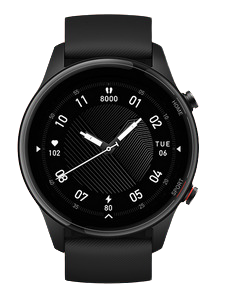
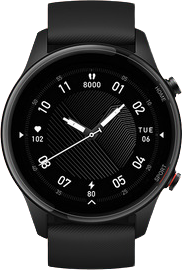
Convert from HTML file to PHP file

diff --git a/assets/css/styles.css b/assets/css/styles.css
@@ -549,7 +549,7 @@ body a:hover {
   }
 
   .phone {
-    width: 130px;
+    width: 90px;
   }
 
   .watch-home {
@@ -557,7 +557,7 @@ body a:hover {
   }
 
   .watch {
-    width: 100px;
+    width: 80px;
   }
 
   .product-layout {

diff --git a/product.php b/product.php
@@ -1,3 +1,9 @@
+<?php 
+  include 'dbconnect.php';
+
+  $idk = $_GET['idkategori'];
+?>
+
 <!DOCTYPE html>
 <html lang="en">
   <head>
@@ -19,21 +25,24 @@
     <!--===== HEADER =====-->
     <nav class="navbar fixed-top navbar-expand-lg navbar-light scroll-navbar">
       <div class="container-fluid">
-        <a class="navbar-brand fs-3" href="index.html">Tokoku</a>
+        <a class="navbar-brand fs-3" href="index.php">Tokoku</a>
         <button class="navbar-toggler" type="button" data-bs-toggle="collapse" data-bs-target="#navbarTogglerDemo02" aria-controls="navbarTogglerDemo02" aria-expanded="false" aria-label="Toggle navigation">
           <span class="navbar-toggler-icon"></span>
         </button>
         <div class="collapse navbar-collapse" id="navbarTogglerDemo02">
           <ul class="navbar-nav me-auto mb-2 mb-lg-0">
             <li class="nav-item">
-              <a class="nav-link fs-6" href="index.html">Home</a>
+              <a class="nav-link fs-6" href="index.php">Home</a>
             </li>
             <li class="nav-item dropdown">
               <a class="nav-link dropdown-toggle active" href="#" id="navbarDropdown" role="button" data-bs-toggle="dropdown" aria-expanded="false"> Product </a>
               <ul class="dropdown-menu" aria-labelledby="navbarDropdown">
-                <li><a class="dropdown-item" href="#">Laptop</a></li>
-                <li><a class="dropdown-item" href="product-phone.html">Phone</a></li>
-                <li><a class="dropdown-item" href="product-watch.html">Watch</a></li>
+                <?php 
+                  $kat=mysqli_query($conn,"SELECT * from kategori order by idkategori ASC");
+                  while($p=mysqli_fetch_array($kat)) :
+                ?>
+                <li><a class="dropdown-item" href="product.php?idkategori=<?= $p['idkategori'] ?>"><?= $p['namakategori'] ?></a></li>
+                <?php endwhile; ?>
               </ul>
             </li>
           </ul>
@@ -54,7 +63,7 @@
 
     <main class="main">
       <section class="featured section" id="shop">
-        <h2 class="section-title">Laptop</h2>
+        <h2 class="section-title">Produk</h2>
 
         <div class="products">
           <div class="row">
@@ -62,7 +71,7 @@
               <div class="brands rounded">
                 <h2>Brands</h2>
                 <ul class="list-brands">
-                  <li>
+                <li>
                     <a href="#"><i class="bx bx-right-arrow-alt button-icon icon-brand">Acer</i></a>
                   </li>
                   <li>
@@ -76,54 +85,53 @@
             </div>
 
             <div class="col-sm products-right">
+              <?php 
+              	$brgs=mysqli_query($conn,"SELECT * from produk where idkategori='$idk' order by idproduk ASC");
+                $x = mysqli_num_rows($brgs);
+
+                if ( $x > 0 ) {
+                  if ( $idk == 1 ) {
+                  while($p=mysqli_fetch_array($brgs)) :
+              ?>
+                <article class="product product-laptop">
+                  <div class="product-layout">
+                    <a href="display-product.php?idproduk=<?= $p['idproduk'] ?>"><img src="<?= $p['gambar']?>" alt="Gambar Produk" class="product_img laptop" /></a>
+                  </div>
+                  <span class="product_name"><?= $p["namaproduk"] ?></span>
+                  <span class="product_price">Rp <?php echo number_format($p['hargaafter']) ?></span>
+                  <a href="display-product.php?idproduk=<?= $p['idproduk'] ?>" class="button-light">Lihat Produk <i class="bx bx-right-arrow-alt button-icon"></i></a>
+                </article>
+              <?php
+                endwhile;
+                } elseif ( $idk == 2 ) {
+                  while($p=mysqli_fetch_array($brgs)) :
+              ?>
+                <article class="product product-laptop">
+                  <div class="product-layout">
+                    <a href="display-product.php?idproduk=<?= $p['idproduk'] ?>"><img src="<?= $p['gambar']?>" alt="Gambar Produk" class="product_img phone" /></a>
+                  </div>
+                  <span class="product_name"><?= $p["namaproduk"] ?></span>
+                  <span class="product_price">Rp <?php echo number_format($p['hargaafter']) ?></span>
+                  <a href="display-product.php?idproduk=<?= $p['idproduk'] ?>" class="button-light">Lihat Produk <i class="bx bx-right-arrow-alt button-icon"></i></a>
+                </article>
+              <?php 
+                endwhile;
+              } elseif ( $idk == 3 ) {
+                while($p=mysqli_fetch_array($brgs)) :
+            ?>
               <article class="product product-laptop">
                 <div class="product-layout">
-                  <img src="assets/img/Laptop/Asus/ROG/ROG Flow X13 GV301/ROG Flow X13 Belakang.png" alt="Featured 1" class="product_img laptop" />
+                  <a href="display-product.php?idproduk=<?= $p['idproduk'] ?>"><img src="<?= $p['gambar']?>" alt="Gambar Produk" class="product_img watch" /></a>
                 </div>
-                <span class="product_name">ROG Flow 13</span>
-                <span class="product_price">Rp 30.000.000</span>
-                <a href="#" class="button-light">Lihat Produk <i class="bx bx-right-arrow-alt button-icon"></i></a>
+                <span class="product_name"><?= $p["namaproduk"] ?></span>
+                <span class="product_price">Rp <?php echo number_format($p['hargaafter']) ?></span>
+                <a href="display-product.php?idproduk=<?= $p['idproduk'] ?>" class="button-light">Lihat Produk <i class="bx bx-right-arrow-alt button-icon"></i></a>
               </article>
-              <article class="product product-laptop">
-                <div class="product-layout">
-                  <img src="assets/img/Laptop/Asus/ROG/ROG Zephyrus G14/ROG G14 Belakang.png" alt="Featured 1" class="product_img laptop" />
-                </div>
-                <span class="product_name">ROG Zephyrus G14</span>
-                <span class="product_price">Rp 30.000.000</span>
-                <a href="#" class="button-light">Lihat Produk <i class="bx bx-right-arrow-alt button-icon"></i></a>
-              </article>
-              <article class="product product-laptop">
-                <div class="product-layout">
-                  <img src="assets/img/Laptop/Asus/Zenbook/Zenbook 14 UX435/Zenbook 14 Belakang.png" alt="Featured 1" class="product_img laptop" />
-                </div>
-                <span class="product_name">Zenbook 14 UX435</span>
-                <span class="product_price">Rp 30.000.000</span>
-                <a href="#" class="button-light">Lihat Produk <i class="bx bx-right-arrow-alt button-icon"></i></a>
-              </article>
-              <article class="product product-laptop">
-                <div class="product-layout">
-                  <img src="assets/img/Laptop/Asus/Zenbook/Zenbook Pro Duo 15' Oled/Zenbook Pro Belakang.png" alt="Featured 1" class="product_img laptop" />
-                </div>
-                <span class="product_name">Zenbook Pro Duo</span>
-                <span class="product_price">Rp 30.000.000</span>
-                <a href="#" class="button-light">Lihat Produk <i class="bx bx-right-arrow-alt button-icon"></i></a>
-              </article>
-              <article class="product product-laptop">
-                <div class="product-layout">
-                  <img src="assets/img/Laptop/Asus/Vivobook/VivoBook 14 (A413, 11th Gen Intel)/Vivobook 14 A413 Belakang.png" alt="Featured 1" class="product_img laptop" />
-                </div>
-                <span class="product_name">VivoBook 14 A413</span>
-                <span class="product_price">Rp 30.000.000</span>
-                <a href="#" class="button-light">Lihat Produk <i class="bx bx-right-arrow-alt button-icon"></i></a>
-              </article>
-              <article class="product product-laptop">
-                <div class="product-layout">
-                  <img src="assets/img/Laptop/Asus/Vivobook/Vivobook 14 (M413 AMD Ryzen 5000 Series)/Vivobook 14 M413 Belakang.png" alt="Featured 1" class="product_img laptop" />
-                </div>
-                <span class="product_name">VivoBook 14 M413</span>
-                <span class="product_price">Rp 30.000.000</span>
-                <a href="#" class="button-light">Lihat Produk <i class="bx bx-right-arrow-alt button-icon"></i></a>
-              </article>
+            <?php endwhile;
+            }
+           } else {
+             echo "Data tidak Ditemukan";
+           } ?>
             </div>
           </div>
         </div>

diff --git a/display-product.php b/display-product.php
@@ -1,3 +1,9 @@
+<?php 
+  include "dbconnect.php";
+?>
+
+
+
 <!DOCTYPE html>
 <html lang="en">
   <head>
@@ -31,9 +37,12 @@
             <li class="nav-item dropdown">
               <a class="nav-link dropdown-toggle active" href="#" id="navbarDropdown" role="button" data-bs-toggle="dropdown" aria-expanded="false"> Product </a>
               <ul class="dropdown-menu" aria-labelledby="navbarDropdown">
-                <li><a class="dropdown-item" href="#">Laptop</a></li>
-                <li><a class="dropdown-item" href="product-phone.html">Phone</a></li>
-                <li><a class="dropdown-item" href="product-watch.html">Watch</a></li>
+                <?php 
+                  $kat=mysqli_query($conn,"SELECT * from kategori order by idkategori ASC");
+                  while($p=mysqli_fetch_array($kat)) :
+                ?>
+                <li><a class="dropdown-item" href="kategori.php?idkategori=<?= $p['idkategori'] ?>"><?php echo $p['namakategori'] ?></a></li>
+                <?php endwhile; ?>
               </ul>
             </li>
           </ul>
@@ -55,11 +64,11 @@
     <main class="main">
       <div class="display-product row">
         <div class="border-product border border-2 rounded col-5">
-          <img src="assets/img/Laptop/Asus/ROG/ROG Flow X13 GV301/ROG Flow X13 Belakang.png" alt="" class="image-product" />
+          <img src="" alt="" class="image-product" />
         </div>
 
         <div class="display-spec col-5 ms-5">
-          <h2 class="display-product-name">ASUS ROG FLOW X13 GV301</h2>
+          <h2 class="display-product-name"></h2>
           <p class="product-description">
             <span>Description :</span> <br />
             Lorem ipsum dolor sit amet consectetur adipisicing elit. Iste earum consectetur excepturi eveniet quod dicta obcaecati placeat at aliquam illum.

diff --git a/index.php b/index.php
@@ -1,3 +1,7 @@
+<?php 
+  include "dbconnect.php";
+?>
+
 <!DOCTYPE html>
 <html lang="en">
   <head>
@@ -31,9 +35,12 @@
             <li class="nav-item dropdown">
               <a class="nav-link dropdown-toggle" href="#" id="navbarDropdown" role="button" data-bs-toggle="dropdown" aria-expanded="false"> Product </a>
               <ul class="dropdown-menu" aria-labelledby="navbarDropdown">
-                <li><a class="dropdown-item" href="product-laptop.html">Laptop</a></li>
-                <li><a class="dropdown-item" href="product-phone.html">Phone</a></li>
-                <li><a class="dropdown-item" href="product-watch.html">Watch</a></li>
+              <?php 
+                  $kat=mysqli_query($conn,"SELECT * from kategori order by idkategori ASC");
+                  while($p=mysqli_fetch_array($kat)) :
+                ?>
+                <li><a class="dropdown-item" href="product.php?idkategori=<?= $p['idkategori'] ?>"><?= $p['namakategori'] ?></a></li>
+                <?php endwhile; ?>
               </ul>
             </li>
           </ul>
@@ -122,7 +129,7 @@
             </div>
             <span class="product_name">ROG Flow 13</span>
             <span class="product_price">Rp 30.000.000</span>
-            <a href="display-product.html" class="button-light">Lihat Produk <i class="bx bx-right-arrow-alt button-icon"></i></a>
+            <a href="display-product.php" class="button-light">Lihat Produk <i class="bx bx-right-arrow-alt button-icon"></i></a>
           </article>
 
           <article class="product product-home">

diff --git a/dbconnect.php b/dbconnect.php
@@ -1,0 +1,11 @@
+<?php 
+// isi nama host, username mysql, dan password mysql anda
+$conn = mysqli_connect("localhost","root","","tokoku");
+
+if(!$conn){
+	echo "gagal konek database menn";
+} else {
+	
+};
+
+?>
